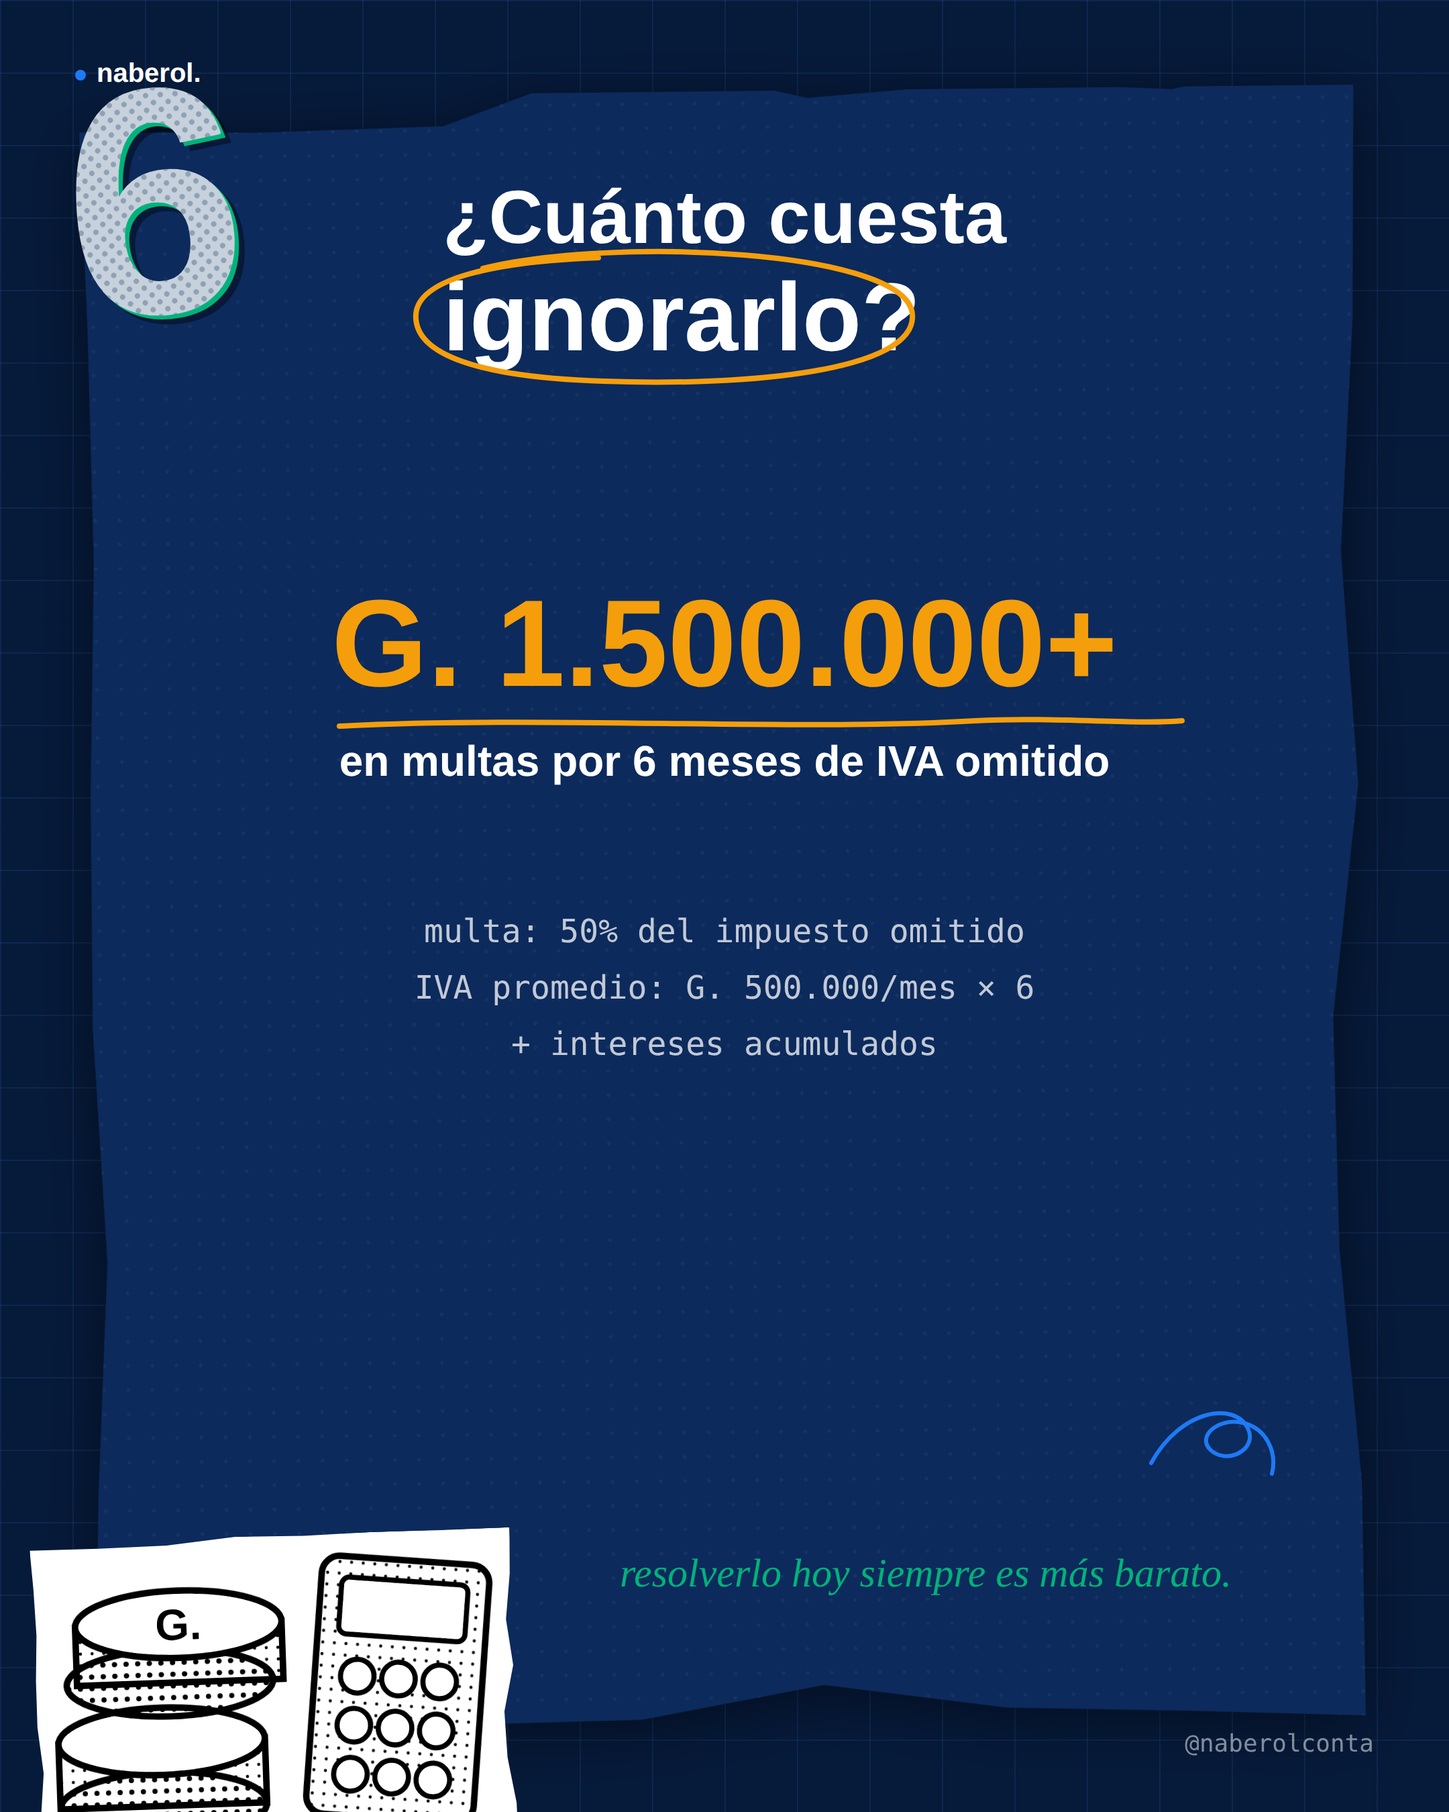
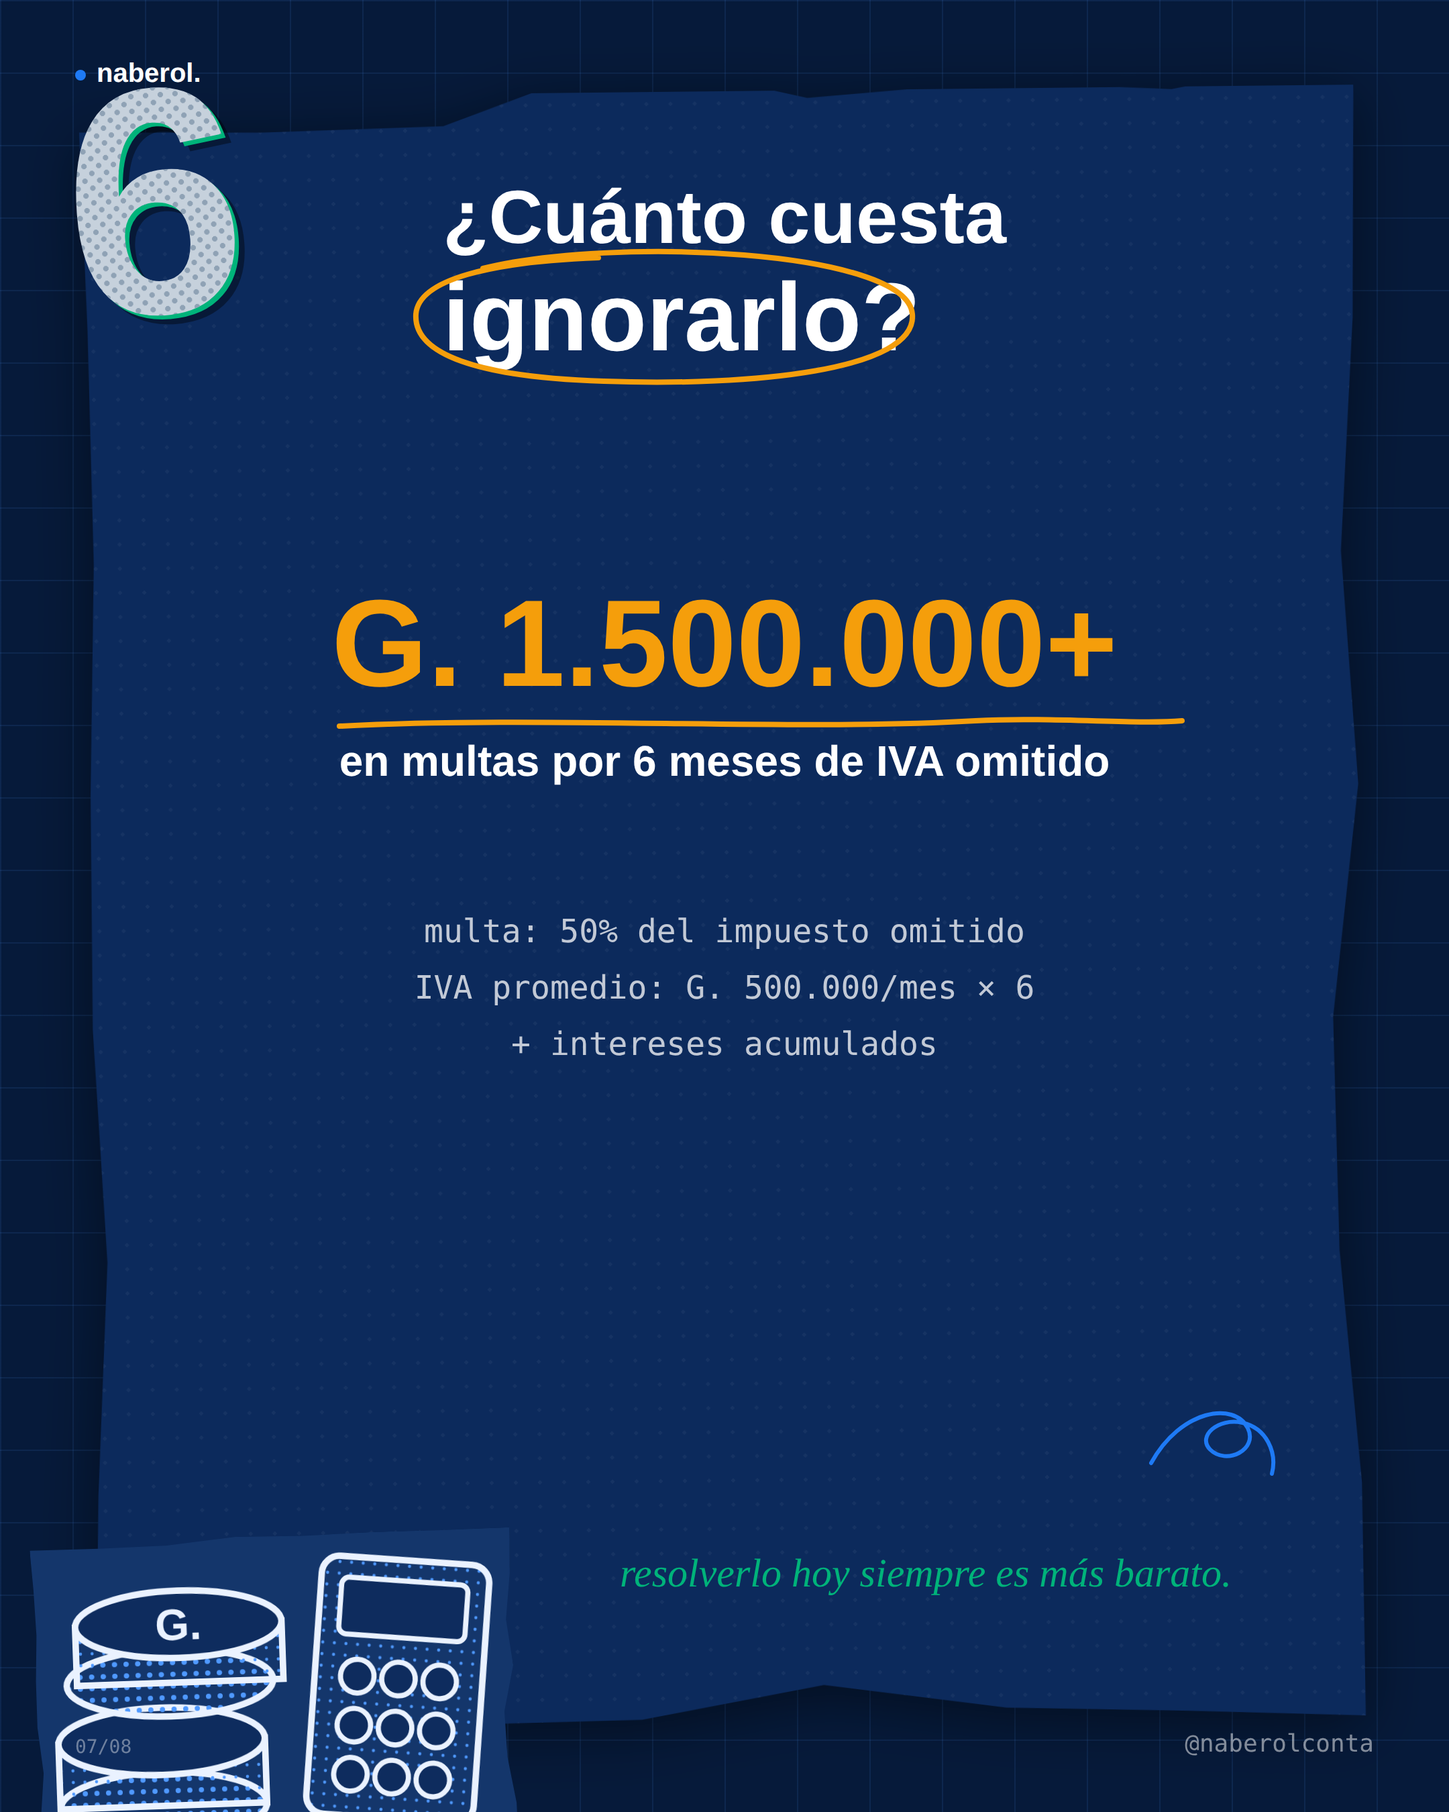
Restyle collage cutouts to brand colors and fix corrupted slide 2 PNG
Cutout illustrations now use blue halftone + light strokes on navy paper
backing instead of black-on-white.

https://claude.ai/code/session_01WPWfe4EZELcFe8TNQ5FzCm

Changed region(s): [[0.0, 0.84, 0.3722, 1.0]]

diff --git a/gen_recortes.html b/gen_recortes.html
@@ -12,145 +12,145 @@
 <svg class="recorte" id="r1" viewBox="0 0 440 340" xmlns="http://www.w3.org/2000/svg">
   <defs>
     <pattern id="ht1" width="9" height="9" patternUnits="userSpaceOnUse">
-      <circle cx="4.5" cy="4.5" r="2.6" fill="#1c1c1c"/>
+      <circle cx="4.5" cy="4.5" r="2.6" fill="#4F99FF"/>
     </pattern>
     <pattern id="ht1b" width="9" height="9" patternUnits="userSpaceOnUse">
-      <circle cx="4.5" cy="4.5" r="1.4" fill="#1c1c1c"/>
+      <circle cx="4.5" cy="4.5" r="1.4" fill="#4F99FF"/>
     </pattern>
   </defs>
   <!-- Megaphone alert -->
   <g transform="translate(40,30) rotate(-8 180 140)">
-    <path d="M 60 140 L 200 70 L 230 60 C 250 55 265 70 263 95 L 258 185 C 256 210 240 222 222 215 L 195 205 L 60 175 Z" fill="url(#ht1)" stroke="#111" stroke-width="5"/>
-    <rect x="20" y="130" width="50" height="55" rx="10" fill="url(#ht1b)" stroke="#111" stroke-width="5"/>
-    <path d="M 90 185 L 100 250 C 102 262 112 268 122 266 L 142 262 C 152 260 156 250 152 240 L 132 195" fill="url(#ht1b)" stroke="#111" stroke-width="5"/>
-    <path d="M 295 80 C 315 95 318 130 300 150 M 310 50 C 345 75 350 140 318 175" fill="none" stroke="#111" stroke-width="6" stroke-linecap="round"/>
+    <path d="M 60 140 L 200 70 L 230 60 C 250 55 265 70 263 95 L 258 185 C 256 210 240 222 222 215 L 195 205 L 60 175 Z" fill="url(#ht1)" stroke="#EAF2FF" stroke-width="5"/>
+    <rect x="20" y="130" width="50" height="55" rx="10" fill="url(#ht1b)" stroke="#EAF2FF" stroke-width="5"/>
+    <path d="M 90 185 L 100 250 C 102 262 112 268 122 266 L 142 262 C 152 260 156 250 152 240 L 132 195" fill="url(#ht1b)" stroke="#EAF2FF" stroke-width="5"/>
+    <path d="M 295 80 C 315 95 318 130 300 150 M 310 50 C 345 75 350 140 318 175" fill="none" stroke="#EAF2FF" stroke-width="6" stroke-linecap="round"/>
   </g>
 </svg>
 
 <svg class="recorte" id="r2" viewBox="0 0 440 340" xmlns="http://www.w3.org/2000/svg">
   <defs>
     <pattern id="ht2" width="9" height="9" patternUnits="userSpaceOnUse">
-      <circle cx="4.5" cy="4.5" r="1.5" fill="#1c1c1c"/>
+      <circle cx="4.5" cy="4.5" r="1.5" fill="#4F99FF"/>
     </pattern>
   </defs>
   <!-- Torn document with seal -->
   <g transform="translate(90,15) rotate(4 130 155)">
-    <path d="M 20 20 L 230 12 L 238 150 L 196 158 L 210 230 L 188 290 L 30 296 L 14 120 Z" fill="#fff" stroke="#111" stroke-width="5"/>
+    <path d="M 20 20 L 230 12 L 238 150 L 196 158 L 210 230 L 188 290 L 30 296 L 14 120 Z" fill="#0E2C5E" stroke="#EAF2FF" stroke-width="5"/>
     <path d="M 20 20 L 230 12 L 238 150 L 196 158 L 210 230 L 188 290 L 30 296 L 14 120 Z" fill="url(#ht2)" opacity="0.25"/>
-    <line x1="48" y1="62" x2="200" y2="56" stroke="#111" stroke-width="6" stroke-linecap="round"/>
-    <line x1="50" y1="98" x2="202" y2="92" stroke="#111" stroke-width="6" stroke-linecap="round"/>
-    <line x1="52" y1="134" x2="160" y2="130" stroke="#111" stroke-width="6" stroke-linecap="round"/>
-    <line x1="56" y1="170" x2="150" y2="167" stroke="#111" stroke-width="6" stroke-linecap="round"/>
-    <circle cx="150" cy="232" r="40" fill="none" stroke="#111" stroke-width="6"/>
-    <path d="M 132 232 L 145 246 L 170 216" fill="none" stroke="#111" stroke-width="6" stroke-linecap="round" stroke-linejoin="round"/>
+    <line x1="48" y1="62" x2="200" y2="56" stroke="#EAF2FF" stroke-width="6" stroke-linecap="round"/>
+    <line x1="50" y1="98" x2="202" y2="92" stroke="#EAF2FF" stroke-width="6" stroke-linecap="round"/>
+    <line x1="52" y1="134" x2="160" y2="130" stroke="#EAF2FF" stroke-width="6" stroke-linecap="round"/>
+    <line x1="56" y1="170" x2="150" y2="167" stroke="#EAF2FF" stroke-width="6" stroke-linecap="round"/>
+    <circle cx="150" cy="232" r="40" fill="none" stroke="#EAF2FF" stroke-width="6"/>
+    <path d="M 132 232 L 145 246 L 170 216" fill="none" stroke="#EAF2FF" stroke-width="6" stroke-linecap="round" stroke-linejoin="round"/>
   </g>
 </svg>
 
 <svg class="recorte" id="r3" viewBox="0 0 440 340" xmlns="http://www.w3.org/2000/svg">
   <defs>
     <pattern id="ht3" width="9" height="9" patternUnits="userSpaceOnUse">
-      <circle cx="4.5" cy="4.5" r="2.4" fill="#1c1c1c"/>
+      <circle cx="4.5" cy="4.5" r="2.4" fill="#4F99FF"/>
     </pattern>
   </defs>
   <!-- Warning triangle -->
   <g transform="translate(80,15) rotate(-3 140 155)">
-    <path d="M 140 18 C 150 18 158 24 164 36 L 268 240 C 276 256 268 276 248 278 L 34 282 C 14 282 4 262 12 246 L 116 36 C 122 24 130 18 140 18 Z" fill="url(#ht3)" stroke="#111" stroke-width="6"/>
-    <rect x="124" y="88" width="34" height="100" rx="16" fill="#fff" stroke="#111" stroke-width="5"/>
-    <circle cx="141" cy="232" r="20" fill="#fff" stroke="#111" stroke-width="5"/>
+    <path d="M 140 18 C 150 18 158 24 164 36 L 268 240 C 276 256 268 276 248 278 L 34 282 C 14 282 4 262 12 246 L 116 36 C 122 24 130 18 140 18 Z" fill="url(#ht3)" stroke="#EAF2FF" stroke-width="6"/>
+    <rect x="124" y="88" width="34" height="100" rx="16" fill="#0E2C5E" stroke="#EAF2FF" stroke-width="5"/>
+    <circle cx="141" cy="232" r="20" fill="#0E2C5E" stroke="#EAF2FF" stroke-width="5"/>
   </g>
 </svg>
 
 <svg class="recorte" id="r4" viewBox="0 0 440 340" xmlns="http://www.w3.org/2000/svg">
   <defs>
     <pattern id="ht4" width="9" height="9" patternUnits="userSpaceOnUse">
-      <circle cx="4.5" cy="4.5" r="2" fill="#1c1c1c"/>
+      <circle cx="4.5" cy="4.5" r="2" fill="#4F99FF"/>
     </pattern>
     <pattern id="ht4b" width="9" height="9" patternUnits="userSpaceOnUse">
-      <circle cx="4.5" cy="4.5" r="1.2" fill="#1c1c1c"/>
+      <circle cx="4.5" cy="4.5" r="1.2" fill="#4F99FF"/>
     </pattern>
   </defs>
   <!-- Falling coins -->
   <g transform="translate(40,10)">
-    <ellipse cx="110" cy="70" rx="58" ry="50" fill="url(#ht4b)" stroke="#111" stroke-width="5"/>
-    <text x="110" y="88" font-family="Arial" font-weight="bold" font-size="52" text-anchor="middle" fill="#111">G</text>
-    <ellipse cx="270" cy="120" rx="48" ry="42" fill="url(#ht4)" stroke="#111" stroke-width="5"/>
-    <text x="270" y="135" font-family="Arial" font-weight="bold" font-size="42" text-anchor="middle" fill="#fff">G</text>
-    <ellipse cx="170" cy="220" rx="64" ry="55" fill="url(#ht4b)" stroke="#111" stroke-width="5"/>
-    <text x="170" y="240" font-family="Arial" font-weight="bold" font-size="56" text-anchor="middle" fill="#111">G</text>
-    <path d="M 330 200 C 340 225 345 255 340 285 M 360 180 C 374 215 378 258 370 300" fill="none" stroke="#111" stroke-width="5" stroke-linecap="round" stroke-dasharray="2 14"/>
+    <ellipse cx="110" cy="70" rx="58" ry="50" fill="url(#ht4b)" stroke="#EAF2FF" stroke-width="5"/>
+    <text x="110" y="88" font-family="Arial" font-weight="bold" font-size="52" text-anchor="middle" fill="#EAF2FF">G</text>
+    <ellipse cx="270" cy="120" rx="48" ry="42" fill="url(#ht4)" stroke="#EAF2FF" stroke-width="5"/>
+    <text x="270" y="135" font-family="Arial" font-weight="bold" font-size="42" text-anchor="middle" fill="#0E2C5E">G</text>
+    <ellipse cx="170" cy="220" rx="64" ry="55" fill="url(#ht4b)" stroke="#EAF2FF" stroke-width="5"/>
+    <text x="170" y="240" font-family="Arial" font-weight="bold" font-size="56" text-anchor="middle" fill="#EAF2FF">G</text>
+    <path d="M 330 200 C 340 225 345 255 340 285 M 360 180 C 374 215 378 258 370 300" fill="none" stroke="#EAF2FF" stroke-width="5" stroke-linecap="round" stroke-dasharray="2 14"/>
   </g>
 </svg>
 
 <svg class="recorte" id="r5" viewBox="0 0 440 340" xmlns="http://www.w3.org/2000/svg">
   <defs>
     <pattern id="ht5" width="9" height="9" patternUnits="userSpaceOnUse">
-      <circle cx="4.5" cy="4.5" r="2.2" fill="#1c1c1c"/>
+      <circle cx="4.5" cy="4.5" r="2.2" fill="#4F99FF"/>
     </pattern>
     <pattern id="ht5b" width="9" height="9" patternUnits="userSpaceOnUse">
-      <circle cx="4.5" cy="4.5" r="1" fill="#1c1c1c"/>
+      <circle cx="4.5" cy="4.5" r="1" fill="#4F99FF"/>
     </pattern>
   </defs>
   <!-- Phone with checklist + pointing finger -->
   <g transform="translate(110,8) rotate(3 110 160)">
-    <rect x="30" y="12" width="170" height="300" rx="26" fill="url(#ht5b)" stroke="#111" stroke-width="6"/>
-    <rect x="48" y="48" width="134" height="220" rx="8" fill="#fff" stroke="#111" stroke-width="4"/>
-    <line x1="66" y1="92" x2="120" y2="92" stroke="#111" stroke-width="6" stroke-linecap="round"/>
-    <path d="M 142 84 L 152 96 L 168 76" fill="none" stroke="#111" stroke-width="6" stroke-linecap="round" stroke-linejoin="round"/>
-    <line x1="66" y1="140" x2="120" y2="140" stroke="#111" stroke-width="6" stroke-linecap="round"/>
-    <path d="M 142 132 L 152 144 L 168 124" fill="none" stroke="#111" stroke-width="6" stroke-linecap="round" stroke-linejoin="round"/>
-    <line x1="66" y1="188" x2="120" y2="188" stroke="#111" stroke-width="6" stroke-linecap="round"/>
-    <circle cx="154" cy="186" r="13" fill="none" stroke="#111" stroke-width="5"/>
-    <line x1="66" y1="236" x2="130" y2="236" stroke="#111" stroke-width="6" stroke-linecap="round"/>
+    <rect x="30" y="12" width="170" height="300" rx="26" fill="url(#ht5b)" stroke="#EAF2FF" stroke-width="6"/>
+    <rect x="48" y="48" width="134" height="220" rx="8" fill="#0E2C5E" stroke="#EAF2FF" stroke-width="4"/>
+    <line x1="66" y1="92" x2="120" y2="92" stroke="#EAF2FF" stroke-width="6" stroke-linecap="round"/>
+    <path d="M 142 84 L 152 96 L 168 76" fill="none" stroke="#EAF2FF" stroke-width="6" stroke-linecap="round" stroke-linejoin="round"/>
+    <line x1="66" y1="140" x2="120" y2="140" stroke="#EAF2FF" stroke-width="6" stroke-linecap="round"/>
+    <path d="M 142 132 L 152 144 L 168 124" fill="none" stroke="#EAF2FF" stroke-width="6" stroke-linecap="round" stroke-linejoin="round"/>
+    <line x1="66" y1="188" x2="120" y2="188" stroke="#EAF2FF" stroke-width="6" stroke-linecap="round"/>
+    <circle cx="154" cy="186" r="13" fill="none" stroke="#EAF2FF" stroke-width="5"/>
+    <line x1="66" y1="236" x2="130" y2="236" stroke="#EAF2FF" stroke-width="6" stroke-linecap="round"/>
   </g>
   <g transform="translate(10,150) rotate(-14)">
-    <path d="M 30 110 C 28 88 38 72 58 70 L 64 70 L 62 30 C 61 16 80 12 84 26 L 92 64 C 110 60 150 62 158 78 C 165 92 158 108 140 116 C 120 126 84 134 62 128 C 42 124 32 120 30 110 Z" fill="url(#ht5)" stroke="#111" stroke-width="5"/>
+    <path d="M 30 110 C 28 88 38 72 58 70 L 64 70 L 62 30 C 61 16 80 12 84 26 L 92 64 C 110 60 150 62 158 78 C 165 92 158 108 140 116 C 120 126 84 134 62 128 C 42 124 32 120 30 110 Z" fill="url(#ht5)" stroke="#EAF2FF" stroke-width="5"/>
   </g>
 </svg>
 
 <svg class="recorte" id="r6" viewBox="0 0 440 340" xmlns="http://www.w3.org/2000/svg">
   <defs>
     <pattern id="ht6" width="9" height="9" patternUnits="userSpaceOnUse">
-      <circle cx="4.5" cy="4.5" r="1.6" fill="#1c1c1c"/>
+      <circle cx="4.5" cy="4.5" r="1.6" fill="#4F99FF"/>
     </pattern>
   </defs>
   <!-- Clipboard with checks -->
   <g transform="translate(100,8) rotate(-4 120 160)">
-    <rect x="20" y="30" width="210" height="290" rx="16" fill="url(#ht6)" stroke="#111" stroke-width="6"/>
-    <rect x="38" y="58" width="174" height="240" rx="8" fill="#fff" stroke="#111" stroke-width="4"/>
-    <rect x="88" y="10" width="74" height="44" rx="10" fill="#fff" stroke="#111" stroke-width="5"/>
-    <path d="M 56 110 L 68 124 L 90 96" fill="none" stroke="#111" stroke-width="6" stroke-linecap="round" stroke-linejoin="round"/>
-    <line x1="106" y1="112" x2="192" y2="112" stroke="#111" stroke-width="6" stroke-linecap="round"/>
-    <path d="M 56 170 L 68 184 L 90 156" fill="none" stroke="#111" stroke-width="6" stroke-linecap="round" stroke-linejoin="round"/>
-    <line x1="106" y1="172" x2="192" y2="172" stroke="#111" stroke-width="6" stroke-linecap="round"/>
-    <path d="M 56 230 L 68 244 L 90 216" fill="none" stroke="#111" stroke-width="6" stroke-linecap="round" stroke-linejoin="round"/>
-    <line x1="106" y1="232" x2="192" y2="232" stroke="#111" stroke-width="6" stroke-linecap="round"/>
+    <rect x="20" y="30" width="210" height="290" rx="16" fill="url(#ht6)" stroke="#EAF2FF" stroke-width="6"/>
+    <rect x="38" y="58" width="174" height="240" rx="8" fill="#0E2C5E" stroke="#EAF2FF" stroke-width="4"/>
+    <rect x="88" y="10" width="74" height="44" rx="10" fill="#0E2C5E" stroke="#EAF2FF" stroke-width="5"/>
+    <path d="M 56 110 L 68 124 L 90 96" fill="none" stroke="#EAF2FF" stroke-width="6" stroke-linecap="round" stroke-linejoin="round"/>
+    <line x1="106" y1="112" x2="192" y2="112" stroke="#EAF2FF" stroke-width="6" stroke-linecap="round"/>
+    <path d="M 56 170 L 68 184 L 90 156" fill="none" stroke="#EAF2FF" stroke-width="6" stroke-linecap="round" stroke-linejoin="round"/>
+    <line x1="106" y1="172" x2="192" y2="172" stroke="#EAF2FF" stroke-width="6" stroke-linecap="round"/>
+    <path d="M 56 230 L 68 244 L 90 216" fill="none" stroke="#EAF2FF" stroke-width="6" stroke-linecap="round" stroke-linejoin="round"/>
+    <line x1="106" y1="232" x2="192" y2="232" stroke="#EAF2FF" stroke-width="6" stroke-linecap="round"/>
   </g>
 </svg>
 
 <svg class="recorte" id="r7" viewBox="0 0 440 340" xmlns="http://www.w3.org/2000/svg">
   <defs>
     <pattern id="ht7" width="9" height="9" patternUnits="userSpaceOnUse">
-      <circle cx="4.5" cy="4.5" r="2" fill="#1c1c1c"/>
+      <circle cx="4.5" cy="4.5" r="2" fill="#4F99FF"/>
     </pattern>
     <pattern id="ht7b" width="9" height="9" patternUnits="userSpaceOnUse">
-      <circle cx="4.5" cy="4.5" r="1.2" fill="#1c1c1c"/>
+      <circle cx="4.5" cy="4.5" r="1.2" fill="#4F99FF"/>
     </pattern>
   </defs>
   <!-- Coin stack + calculator -->
   <g transform="translate(30,30)">
     <g>
-      <ellipse cx="110" cy="250" rx="80" ry="26" fill="url(#ht7)" stroke="#111" stroke-width="5"/>
-      <rect x="30" y="200" width="160" height="50" fill="url(#ht7b)" stroke="#111" stroke-width="5"/>
-      <ellipse cx="110" cy="200" rx="80" ry="26" fill="#fff" stroke="#111" stroke-width="5"/>
-      <ellipse cx="110" cy="155" rx="80" ry="26" fill="url(#ht7)" stroke="#111" stroke-width="5" transform="translate(8,0)"/>
-      <rect x="46" y="110" width="160" height="45" fill="url(#ht7b)" stroke="#111" stroke-width="5" transform="translate(0,0)"/>
-      <ellipse cx="126" cy="110" rx="80" ry="26" fill="#fff" stroke="#111" stroke-width="5"/>
-      <text x="126" y="122" font-family="Arial" font-weight="bold" font-size="34" text-anchor="middle" fill="#111">G.</text>
+      <ellipse cx="110" cy="250" rx="80" ry="26" fill="url(#ht7)" stroke="#EAF2FF" stroke-width="5"/>
+      <rect x="30" y="200" width="160" height="50" fill="url(#ht7b)" stroke="#EAF2FF" stroke-width="5"/>
+      <ellipse cx="110" cy="200" rx="80" ry="26" fill="#0E2C5E" stroke="#EAF2FF" stroke-width="5"/>
+      <ellipse cx="110" cy="155" rx="80" ry="26" fill="url(#ht7)" stroke="#EAF2FF" stroke-width="5" transform="translate(8,0)"/>
+      <rect x="46" y="110" width="160" height="45" fill="url(#ht7b)" stroke="#EAF2FF" stroke-width="5" transform="translate(0,0)"/>
+      <ellipse cx="126" cy="110" rx="80" ry="26" fill="#0E2C5E" stroke="#EAF2FF" stroke-width="5"/>
+      <text x="126" y="122" font-family="Arial" font-weight="bold" font-size="34" text-anchor="middle" fill="#EAF2FF">G.</text>
     </g>
     <g transform="translate(240,60) rotate(6)">
-      <rect x="0" y="0" width="130" height="200" rx="14" fill="url(#ht7b)" stroke="#111" stroke-width="5"/>
-      <rect x="16" y="16" width="98" height="44" rx="6" fill="#fff" stroke="#111" stroke-width="4"/>
-      <g fill="#fff" stroke="#111" stroke-width="4">
+      <rect x="0" y="0" width="130" height="200" rx="14" fill="url(#ht7b)" stroke="#EAF2FF" stroke-width="5"/>
+      <rect x="16" y="16" width="98" height="44" rx="6" fill="#0E2C5E" stroke="#EAF2FF" stroke-width="4"/>
+      <g fill="#0E2C5E" stroke="#EAF2FF" stroke-width="4">
         <circle cx="33" cy="92" r="13"/><circle cx="65" cy="92" r="13"/><circle cx="97" cy="92" r="13"/>
         <circle cx="33" cy="130" r="13"/><circle cx="65" cy="130" r="13"/><circle cx="97" cy="130" r="13"/>
         <circle cx="33" cy="168" r="13"/><circle cx="65" cy="168" r="13"/><circle cx="97" cy="168" r="13"/>
@@ -162,12 +162,12 @@
 <svg class="recorte" id="r8" viewBox="0 0 440 340" xmlns="http://www.w3.org/2000/svg">
   <defs>
     <pattern id="ht8" width="9" height="9" patternUnits="userSpaceOnUse">
-      <circle cx="4.5" cy="4.5" r="2.4" fill="#1c1c1c"/>
+      <circle cx="4.5" cy="4.5" r="2.4" fill="#4F99FF"/>
     </pattern>
   </defs>
   <!-- Peace-sign hand (like reference) -->
   <g transform="translate(130,10) rotate(4 90 165)">
-    <path d="M 62 320 C 58 270 52 240 44 214 C 36 188 30 170 36 152 C 42 136 58 132 68 144 L 88 170 L 64 60 C 60 44 82 36 90 50 L 122 140 L 130 36 C 131 20 154 20 156 36 L 162 142 L 196 70 C 203 56 224 64 220 80 L 192 180 C 204 174 220 178 222 192 C 224 206 214 218 198 230 C 178 246 162 262 156 286 C 152 302 150 312 148 322 Z" fill="url(#ht8)" stroke="#111" stroke-width="6" stroke-linejoin="round"/>
+    <path d="M 62 320 C 58 270 52 240 44 214 C 36 188 30 170 36 152 C 42 136 58 132 68 144 L 88 170 L 64 60 C 60 44 82 36 90 50 L 122 140 L 130 36 C 131 20 154 20 156 36 L 162 142 L 196 70 C 203 56 224 64 220 80 L 192 180 C 204 174 220 178 222 192 C 224 206 214 218 198 230 C 178 246 162 262 156 286 C 152 302 150 312 148 322 Z" fill="url(#ht8)" stroke="#EAF2FF" stroke-width="6" stroke-linejoin="round"/>
   </g>
 </svg>
 

diff --git a/carrusel_collage.html b/carrusel_collage.html
@@ -166,14 +166,14 @@
     position: absolute;
     top: -14px; left: -14px;
     right: -14px; bottom: -14px;
-    background: #FFFFFF;
+    background: #14366B;
     clip-path: polygon(0.0% 2.12%, 14.29% 2.24%, 28.57% 1.96%, 42.86% 0%, 57.14% 0.46%, 71.43% 0%, 85.71% 0.15%, 100.0% 0%, 99.72% 14.29%, 98.61% 28.57%, 99.78% 42.86%, 97.62% 57.14%, 97.93% 71.43%, 99.5% 85.71%, 99.61% 100.0%, 85.71% 99.6%, 71.43% 99.29%, 57.14% 97.79%, 42.86% 99.8%, 28.57% 100.0%, 14.29% 99.9%, 0.0% 99.8%, 0.4% 85.71%, 1.3% 71.43%, 0.34% 57.14%, 0.36% 42.86%, 0.8% 28.57%, 0.5% 14.29%);
     box-shadow: 0 6px 18px rgba(0,0,0,0.4);
   }
   .cutout-photo img {
     position: relative;
     display: block;
-    filter: grayscale(1) contrast(1.25) brightness(1.05);
+    filter: none;
   }
 
   /* ── Type helpers ── */
